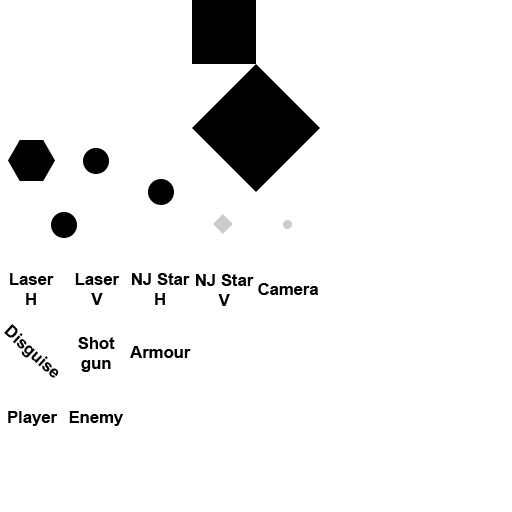
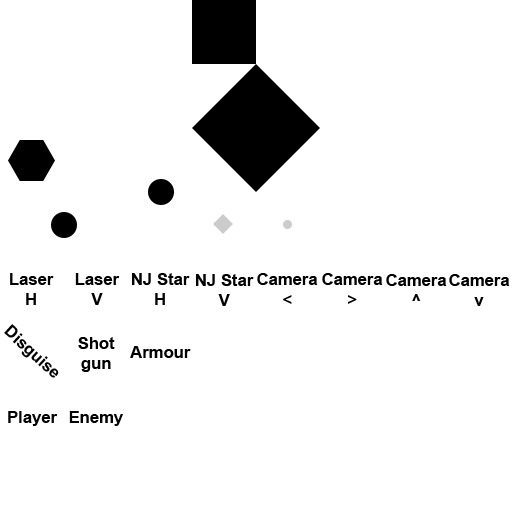
Added camera trap

Changed region(s): [[0.5, 0.5312, 1.0, 0.5938], [0.1562, 0.2812, 0.2188, 0.3438]]

diff --git a/src/trap.py b/src/trap.py
@@ -141,3 +141,57 @@ class NinjaStarTrap(LaserTrap):
         new_rect = rotated_img.get_rect(center=self.render_pos)
         screen.blit(rotated_img, new_rect)
 
+
+class CameraTrap:
+    def __init__(self, game, x, y, direction):
+        self.game = game
+        self.movement_counter = 0
+        # 160 degrees of movement
+        self.total_turn_angle = 100
+        self.half_cycle_time = abs(3/self.total_turn_angle) * 50
+
+        tw = self.game.level_manager.current_map().tilewidth
+        th = self.game.level_manager.current_map().tileheight
+
+        # Angles are all in degrees
+        self.render_angle = 0
+
+        if direction == "left":
+            self.pos = pg.Vector2(x+tw, y+th/2)
+            self.angle = 40
+        elif direction == "right":
+            self.pos = pg.Vector2(x, y+th/2)
+            self.angle = -140
+        elif direction == "up":
+            self.pos = pg.Vector2(x+tw/2, y+th)
+            self.angle = 130
+        else:
+            self.pos = pg.Vector2(x+tw/2, y)
+            self.angle = -50
+
+        # Field of view
+        v = Vector
+        self.angular_vel = 0
+        self.FOV_points = [
+            v(-5, 0),
+            v(5, 0), 
+            v(150, 300), 
+            v(-150, 300), 
+        ]
+        self.FOV_obj = Poly(v(*self.pos), self.FOV_points, self.angle)
+
+    def update(self, dt):
+        # Calculate displacement based on sin(movement_counter)
+        self.movement_counter += self.half_cycle_time * dt
+        self.displacement = (math.sin(self.movement_counter) + 1) * self.total_turn_angle / 2 # 160 degrees FOV
+        
+        # Set the render position to be origin + displacement
+        self.FOV_obj.angle = math.radians(self.angle + self.displacement)
+
+        if collide(self.FOV_obj, self.game.player.collision_obj):
+            self.game.level_manager.lockdown = True
+
+    def draw(self, screen):
+        # Draw FOV area
+        pg.draw.polygon(self.game.enemy_manager.transparent_surface, (0, 0, 0, 32), self.FOV_obj.points)
+

diff --git a/src/tilemap.py b/src/tilemap.py
@@ -19,6 +19,10 @@ class TiledMap:
             "laser_v": 34,
             "ninja_star_h": 35,
             "ninja_star_v": 36,
+            "camera_l": 37,
+            "camera_r": 38,
+            "camera_u": 39,
+            "camera_d": 40,
         }
 
         self.load_tilemap(path)
@@ -60,6 +64,8 @@ class TiledMap:
 
     def load_tiles(self):
         self.spawners = {}
+        for k in self.spawner_tiles:
+            self.spawners[k] = []
         self.tiles = []
         self.tilewidth = self.data["tilewidth"]
         self.tileheight = self.data["tileheight"]
@@ -89,8 +95,6 @@ class TiledMap:
                                 # Spawner tile layers must be hidden
                                 for k, v in self.spawner_tiles.items():
                                     if tile_id == v:
-                                        if k not in self.spawners:
-                                            self.spawners[k] = []
                                         self.spawners[k].append(rect)
                         tx += 1
                         if tx == cw:

diff --git a/src/level.py b/src/level.py
@@ -62,6 +62,23 @@ class LevelManager:
         for p in points:
             self.game.trap_manager.add(trap.NinjaStarTrap(self.game, p[0], p[1], "vertical"))
 
+        # Left, Right, Up and Down cameras
+        points = spawners["camera_l"]
+        for p in points:
+            self.game.trap_manager.add(trap.CameraTrap(self.game, p[0], p[1], "left"))
+
+        points = spawners["camera_r"]
+        for p in points:
+            self.game.trap_manager.add(trap.CameraTrap(self.game, p[0], p[1], "right"))
+
+        points = spawners["camera_u"]
+        for p in points:
+            self.game.trap_manager.add(trap.CameraTrap(self.game, p[0], p[1], "up"))
+
+        points = spawners["camera_d"]
+        for p in points:
+            self.game.trap_manager.add(trap.CameraTrap(self.game, p[0], p[1], "down"))
+
     def update(self, dt):
         if self.lockdown:
             self.game.enemy_manager.detect_outside_FOV = True
